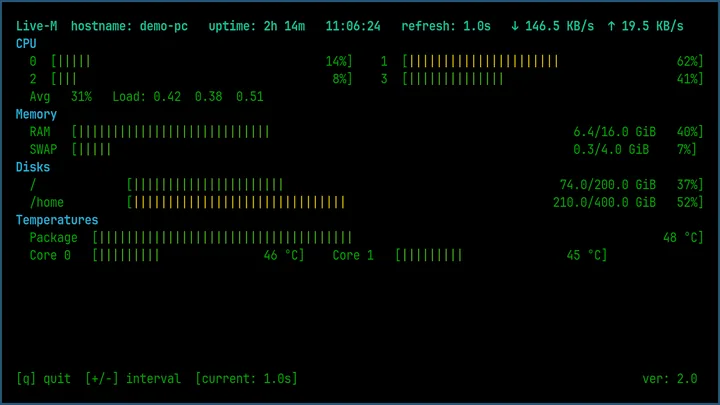
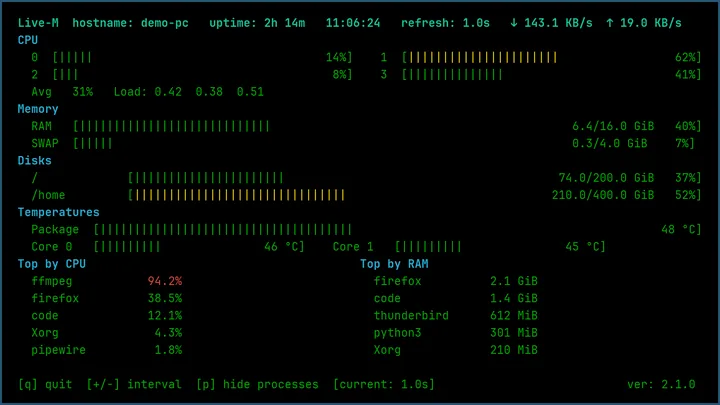
feat(web): Live-M 2.1.0 – nový popis a screenshot (#24)
* feat(web): Live-M 2.1.0 – nový popis, screenshot s panelem procesů, Python 3.10+

- stránka Live-M: panel Top procesů na klávesu p, historie terminálu, Wi-Fi podle jádra,
  jakýkoli Linux, změřená zátěž (~0,4 % / ~0,8 %), Python 3.10+, Arch v textu
- nový terminal.webp a card.webp (z fake dat), tagline a popisy v apps.yml, úvodní stránka
- verze Live-M 2.1.0 a wpview 0.1.1; stránka wpview: React 18 nebo 19

* fix(web): screenshot sway-desktop-stats jen s widgetem, bez plochy

Obrázek widgetu a karta ořezané na samotný panel (dřív byla kolem vidět tapeta); rozměry v HTML a apps.yml upraveny.

---------

diff --git a/apps/live-m.html b/apps/live-m.html
@@ -1,6 +1,6 @@
 ---
 title: "Live-M — a lightweight terminal system monitor | Icenux"
-description: "Live-M is a lightweight CLI system monitor for Linux: per-core CPU, RAM, swap, disks, temperatures and Wi-Fi speed without the weight of htop."
+description: "Live-M is a lightweight CLI system monitor for Linux: per-core CPU, RAM, swap, disks, temperatures and Wi-Fi speed, plus an optional top-processes panel, without the weight of htop."
 permalink: /apps/live-m/
 nav: apps
 og_type: article
@@ -15,8 +15,8 @@ next: [repo-doctor, sway-desktop-stats]
           <div class="app-hero__copy">
             <span class="app-tag"><span class="app-tag__icon app-tag__icon--live"><svg viewBox="0 0 24 24" aria-hidden="true">{{ app.icon_svg }}</svg></span>Linux utility</span>
             <h1>Live-M<span class="dot-end">.</span></h1>
-            <p class="lede">A lightweight terminal system monitor that replaces htop and psensors — and never touches the process list.</p>
-            <p class="app-hero__text">Per-core CPU, memory, swap, disks, temperatures and live Wi-Fi throughput in one calm, colour-coded view. Everything updates in place, so you can leave it open on a second monitor and forget about it.</p>
+            <p class="lede">A lightweight terminal system monitor that replaces htop and psensors — and only looks at processes when you ask it to.</p>
+            <p class="app-hero__text">Per-core CPU, memory, swap, disks, temperatures and live Wi-Fi throughput in one calm, colour-coded view. Press <kbd>p</kbd> when you want to see the five busiest processes. Everything updates in place, so you can leave it open on a second monitor and forget about it.</p>
             <div class="app-hero__actions">
               <a class="btn btn--primary" href="#download">Download {{ app.version }} <svg viewBox="0 0 24 24" aria-hidden="true"><path d="M5 12h14M13 6l6 6-6 6"/></svg></a>
               <a class="btn btn--ghost" href="https://github.com/Icenux/Live-M" target="_blank" rel="noopener"><svg viewBox="0 0 24 24" aria-hidden="true"><path d="M12 2a10 10 0 0 0-3.16 19.49c.5.09.68-.22.68-.48v-1.7c-2.78.6-3.37-1.34-3.37-1.34-.45-1.16-1.11-1.47-1.11-1.47-.91-.62.07-.61.07-.61 1 .07 1.53 1.03 1.53 1.03.9 1.53 2.35 1.09 2.92.83.09-.65.35-1.09.63-1.34-2.22-.25-4.55-1.11-4.55-4.94 0-1.09.39-1.98 1.03-2.68-.1-.25-.45-1.27.1-2.65 0 0 .84-.27 2.75 1.02a9.6 9.6 0 0 1 5 0c1.91-1.29 2.75-1.02 2.75-1.02.55 1.38.2 2.4.1 2.65.64.7 1.03 1.59 1.03 2.68 0 3.84-2.34 4.68-4.57 4.93.36.31.68.92.68 1.85v2.74c0 .27.18.58.69.48A10 10 0 0 0 12 2z" fill="currentColor"/></svg> GitHub</a>
@@ -24,7 +24,7 @@ next: [repo-doctor, sway-desktop-stats]
             <ul class="app-facts">
               <li><span>Version</span><strong>{{ app.version }}</strong></li>
               <li><span>Platform</span><strong>Linux</strong></li>
-              <li><span>Runtime</span><strong>Python 3.8+</strong></li>
+              <li><span>Runtime</span><strong>Python 3.10+</strong></li>
               <li><span>License</span><strong>MIT</strong></li>
             </ul>
           </div>
@@ -35,7 +35,7 @@ next: [repo-doctor, sway-desktop-stats]
                 <span class="shot-frame__title">livem</span>
                 <span class="shot-frame__badge">live</span>
               </div>
-              <img src="/assets/apps/live-m/terminal.webp" alt="Live-M running in a terminal, showing CPU, memory, disk and temperature panels" width="1464" height="758">
+              <img src="/assets/apps/live-m/terminal.webp" alt="Live-M running in a terminal, showing CPU, memory, disk and temperature panels and the top-processes panel" width="1472" height="800">
             </div>
             <figcaption>Every panel refreshes in place. Colours tell you what needs attention.</figcaption>
           </figure>
@@ -50,7 +50,7 @@ next: [repo-doctor, sway-desktop-stats]
             <span class="kicker">What it shows</span>
             <h2>Everything that matters.<br>Nothing that doesn't<span class="dot-end">.</span></h2>
           </div>
-          <p>Live-M is deliberately not a process explorer. It answers one question well: how is this machine doing right now?</p>
+          <p>Live-M is deliberately not a process explorer. It answers one question well: how is this machine doing right now? And when the answer is &ldquo;busy&rdquo;, one key shows what is busy.</p>
         </div>
         <div class="feature-grid">
                     <article class="feature reveal">
@@ -86,14 +86,35 @@ next: [repo-doctor, sway-desktop-stats]
               <svg viewBox="0 0 24 24" aria-hidden="true"><path d="M2 8.5a15 15 0 0 1 20 0"/><path d="M5.5 12a10 10 0 0 1 13 0"/><path d="M9 15.5a5 5 0 0 1 6 0"/><circle cx="12" cy="19" r="1"/></svg>
             </span>
             <h3>Live Wi-Fi speed</h3>
-            <p>Current download and upload throughput sit in the header, next to the hostname, without taking over the screen.</p>
+            <p>Current download and upload throughput sit in the header, next to the hostname, without taking over the screen. The wireless interface is detected from the kernel, whatever it is called.</p>
           </article>
                     <article class="feature reveal">
             <span class="feature__icon">
               <svg viewBox="0 0 24 24" aria-hidden="true"><path d="m13 2-9 12h7l-1 8 9-12h-7z"/></svg>
             </span>
             <h3>Lighter than htop</h3>
-            <p>Live-M skips /proc/[pid] entirely. CPU usage stays under 0.5%, which is the whole reason it exists.</p>
+            <p>By default Live-M skips /proc/[pid] entirely and uses around 0.4% of one core, which is the whole reason it exists.</p>
+          </article>
+                    <article class="feature reveal">
+            <span class="feature__icon">
+              <svg viewBox="0 0 24 24" aria-hidden="true"><path d="M8 6h12M8 12h12M8 18h12"/><circle cx="4" cy="6" r="1"/><circle cx="4" cy="12" r="1"/><circle cx="4" cy="18" r="1"/></svg>
+            </span>
+            <h3>Top processes on demand</h3>
+            <p>Press <kbd>p</kbd> for the five busiest processes by CPU and by RAM. It is off by default, sampled every 3 seconds and only while it is on screen, so the cost is small and only paid when you ask.</p>
+          </article>
+                    <article class="feature reveal">
+            <span class="feature__icon">
+              <svg viewBox="0 0 24 24" aria-hidden="true"><rect x="3" y="4" width="18" height="16" rx="2"/><path d="m7 9 3 3-3 3M13 15h4"/></svg>
+            </span>
+            <h3>Your terminal stays intact</h3>
+            <p>Live-M runs on the alternate screen. When you quit with <kbd>q</kbd> or <kbd>Ctrl</kbd>+<kbd>C</kbd>, the shell output from before you started it is right where you left it.</p>
+          </article>
+                    <article class="feature reveal">
+            <span class="feature__icon">
+              <svg viewBox="0 0 24 24" aria-hidden="true"><circle cx="12" cy="12" r="9"/><path d="M3 12h18M12 3a14 14 0 0 1 0 18M12 3a14 14 0 0 0 0 18"/></svg>
+            </span>
+            <h3>Any Linux</h3>
+            <p>Pure Python on <code>/proc</code> and <code>/sys</code>, so it is not tied to a distribution or CPU architecture. Ready-made packages for Debian, Ubuntu, Mint and Arch; Python 3.10 or newer.</p>
           </article>
         </div>
       </div>
@@ -108,10 +129,11 @@ next: [repo-doctor, sway-desktop-stats]
           </div>
           <div class="why-panel__body">
             <p>htop walks every process in <code>/proc/[pid]/</code> on every refresh. That is useful when you need a process list — and unnecessary weight when you only want the health of the machine.</p>
-            <p>Live-M drops the process iteration completely. The result is a monitor that stays under 0.5% CPU, starts instantly and looks good doing it.</p>
+            <p>By default Live-M does not iterate over processes at all. The result is a monitor that stays around 0.4% CPU, starts instantly and looks good doing it. When you do want to know what is loading the machine, press <kbd>p</kbd>: the panel reads one small file per process, samples every 3 seconds and is not sampled at all while hidden. Measured with 300 processes, that is about 0.8% CPU in total.</p>
             <ul class="check-list">
               <li>Live-updating panels, no flicker</li>
               <li>Refresh interval adjustable with <kbd>+</kbd> and <kbd>-</kbd></li>
+              <li>Top processes with <kbd>p</kbd>, or start with them on using <code>--procs</code></li>
               <li>Optional <code>--interval</code>, <code>--no-color</code>, <code>--version</code> and <code>--help</code></li>
               <li>Quit with <kbd>q</kbd> or <kbd>Ctrl</kbd>+<kbd>C</kbd></li>
             </ul>
@@ -131,8 +153,8 @@ next: [repo-doctor, sway-desktop-stats]
         </div>
         <div class="shots shots--single">
                     <figure class="shot shot--wide reveal">
-            <img src="/assets/apps/live-m/terminal.webp" alt="Full Live-M terminal dashboard with CPU cores, RAM, swap, disks, temperatures and Wi-Fi in the header" width="1464" height="758" loading="lazy">
-            <figcaption>CPU, memory, disks, thermals and network — all in a single terminal window.</figcaption>
+            <img src="/assets/apps/live-m/terminal.webp" alt="Full Live-M terminal dashboard with CPU cores, RAM, swap, disks, temperatures, the top processes by CPU and RAM, and Wi-Fi in the header" width="1472" height="800" loading="lazy">
+            <figcaption>CPU, memory, disks, thermals, network and the busiest processes — all in a single terminal window.</figcaption>
           </figure>
         </div>
       </div>
@@ -144,12 +166,12 @@ next: [repo-doctor, sway-desktop-stats]
           <div class="download-panel__copy">
             <span class="kicker">Download</span>
             <h2>Install Live-M<span class="dot-end">.</span></h2>
-            <p>Built for Debian, Ubuntu and Linux Mint. Install it from the signed Icenux repository and updates arrive with <code>apt upgrade</code>. The package is small, the dependency list is one package long, and the binary is on your PATH immediately.</p>
+            <p>Packaged for Debian, Ubuntu and Linux Mint, with an Arch Linux package below. Install it from the signed Icenux repository and updates arrive with <code>apt upgrade</code>. The package is small, the dependency list is one package long, and the binary is on your PATH immediately.</p>
             <div class="download-actions">
               <a class="btn btn--primary" href="https://github.com/Icenux/Live-M/releases/latest/download/livem_all.deb" download>Download .deb <svg viewBox="0 0 24 24" aria-hidden="true"><path d="M5 12h14M13 6l6 6-6 6"/></svg></a>
               <a class="btn btn--ghost" href="https://github.com/Icenux/Live-M/releases" target="_blank" rel="noopener">All releases ↗</a>
             </div>
-            <p class="download-note">Requires Linux, Python 3.8+ and <code>python3-psutil</code>.</p>
+            <p class="download-note">Requires Linux, Python 3.10+ and <code>python3-psutil</code>.</p>
             <p class="download-note">Every release ships a signed <code>SHA256SUMS</code> next to the package.</p>
           </div>
 {% capture live_apt %}sudo curl -fsSL https://icenux.github.io/icenux/icenux.asc -o /usr/share/keyrings/icenux.asc
@@ -177,8 +199,8 @@ livem{% endcapture %}
 
         <div class="spec-grid reveal">
           <div class="spec"><span>Package</span><strong>livem {{ app.version }}</strong><small>Signed APT package</small></div>
-          <div class="spec"><span>Runs on</span><strong>Debian · Ubuntu · Mint</strong><small>Other distributions from source</small></div>
-          <div class="spec"><span>Dependency</span><strong>python3-psutil</strong><small>Plus Python 3.8 or newer</small></div>
+          <div class="spec"><span>Runs on</span><strong>Any Linux</strong><small>Packages for Debian, Ubuntu, Mint and Arch</small></div>
+          <div class="spec"><span>Dependency</span><strong>python3-psutil</strong><small>Plus Python 3.10 or newer</small></div>
           <div class="spec"><span>License</span><strong>MIT</strong><small>Free to use and modify</small></div>
         </div>
 

diff --git a/apps/wpview.html b/apps/wpview.html
@@ -23,7 +23,7 @@ next: [scrv, ccc]
             </div>
             <ul class="app-facts">
               <li><span>Version</span><strong>{{ app.version }}</strong></li>
-              <li><span>Framework</span><strong>React 18</strong></li>
+              <li><span>Framework</span><strong>React 18 or 19</strong></li>
               <li><span>Written in</span><strong>TypeScript</strong></li>
               <li><span>Format</span><strong>ESM + types</strong></li>
             </ul>
@@ -112,7 +112,7 @@ next: [scrv, ccc]
               <li>Controlled <code>index</code> and <code>itemState</code></li>
               <li>Callbacks: <code>onRate</code>, <code>onFavorite</code>, <code>onTagToggle</code>, <code>onEdit</code>, <code>onDelete</code></li>
               <li>Images and video, with a settings panel</li>
-              <li>Peer dependencies: <code>react</code> and <code>react-dom</code> 18</li>
+              <li>Peer dependencies: <code>react</code> and <code>react-dom</code> 18 or 19</li>
               <li>Playground with mock data: <code>npm run dev</code></li>
               <li>Tests with Vitest and Testing Library</li>
             </ul>
@@ -132,7 +132,7 @@ next: [scrv, ccc]
               <a class="btn btn--primary" href="https://github.com/{{ app.repo }}/archive/{{ app.tag }}.zip" download>Download source ZIP <svg viewBox="0 0 24 24" aria-hidden="true"><path d="M5 12h14M13 6l6 6-6 6"/></svg></a>
               <a class="btn btn--ghost" href="https://github.com/{{ app.repo }}" target="_blank" rel="noopener">Repository ↗</a>
             </div>
-            <p class="download-note">Needs React 18 and Node.js with npm. Release <code>{{ app.tag }}</code>.</p>
+            <p class="download-note">Needs React 18 or 19 and Node.js with npm. Release <code>{{ app.tag }}</code>.</p>
           </div>
           <div class="install-card">
             <div class="install-card__head">
@@ -180,7 +180,7 @@ import '@icenux/wpview/style.css';
 
         <div class="spec-grid reveal">
           <div class="spec"><span>Version</span><strong>{{ app.version }}</strong><small>{{ app.released }}</small></div>
-          <div class="spec"><span>Framework</span><strong>React 18</strong><small>react and react-dom as peers</small></div>
+          <div class="spec"><span>Framework</span><strong>React 18 or 19</strong><small>react and react-dom as peers</small></div>
           <div class="spec"><span>Output</span><strong>ESM</strong><small>With type declarations</small></div>
           <div class="spec"><span>Source</span><strong>GitHub</strong><small>Not on npm yet</small></div>
         </div>

diff --git a/apps/sway-desktop-stats.html b/apps/sway-desktop-stats.html
@@ -35,7 +35,7 @@ next: [live-m, repo-doctor]
                 <span class="shot-frame__title">desktop-stats</span>
                 <span class="shot-frame__badge">bottom layer</span>
               </div>
-              <img src="/assets/apps/sway-desktop-stats/widget.webp" alt="Sway Desktop Stats panel showing CPU temperature, memory, disk, battery, network and Docker information" width="560" height="1260">
+              <img src="/assets/apps/sway-desktop-stats/widget.webp" alt="Sway Desktop Stats panel showing CPU temperature, memory, disk, battery, network and Docker information" width="514" height="1204">
             </div>
             <figcaption>One panel, every signal: thermals, load, battery, network, Docker and top processes.</figcaption>
           </figure>
@@ -126,7 +126,7 @@ next: [live-m, repo-doctor]
         </div>
         <div class="shots shots--single shots--sway">
                     <figure class="shot shot--portrait reveal">
-            <img src="/assets/apps/sway-desktop-stats/widget.webp" alt="Full Sway Desktop Stats waybar panel with temperatures, usage bars, network, Docker and top processes" width="560" height="1260" loading="lazy">
+            <img src="/assets/apps/sway-desktop-stats/widget.webp" alt="Full Sway Desktop Stats waybar panel with temperatures, usage bars, network, Docker and top processes" width="514" height="1204" loading="lazy">
             <figcaption>CPU, memory, disk, battery, network, Docker and top processes in one panel.</figcaption>
           </figure>
         </div>

diff --git a/index.html b/index.html
@@ -103,7 +103,7 @@ nav: home
               <svg viewBox="0 0 24 24" aria-hidden="true"><path d="m8 7-5 5 5 5M16 7l5 5-5 5M14 4l-4 16"/></svg>
             </span>
             <h3>Light on the system</h3>
-            <p>Live-M skips the process list to stay under 0.5% CPU, repo-doctor ships as a standalone binary that only needs git, and scrv is a single bash script.</p>
+            <p>Live-M only looks at processes when you press a key, so it stays around 0.4% CPU, repo-doctor ships as a standalone binary that only needs git, and scrv is a single bash script.</p>
           </article>
 
           <article class="service reveal" style="--i:2">
